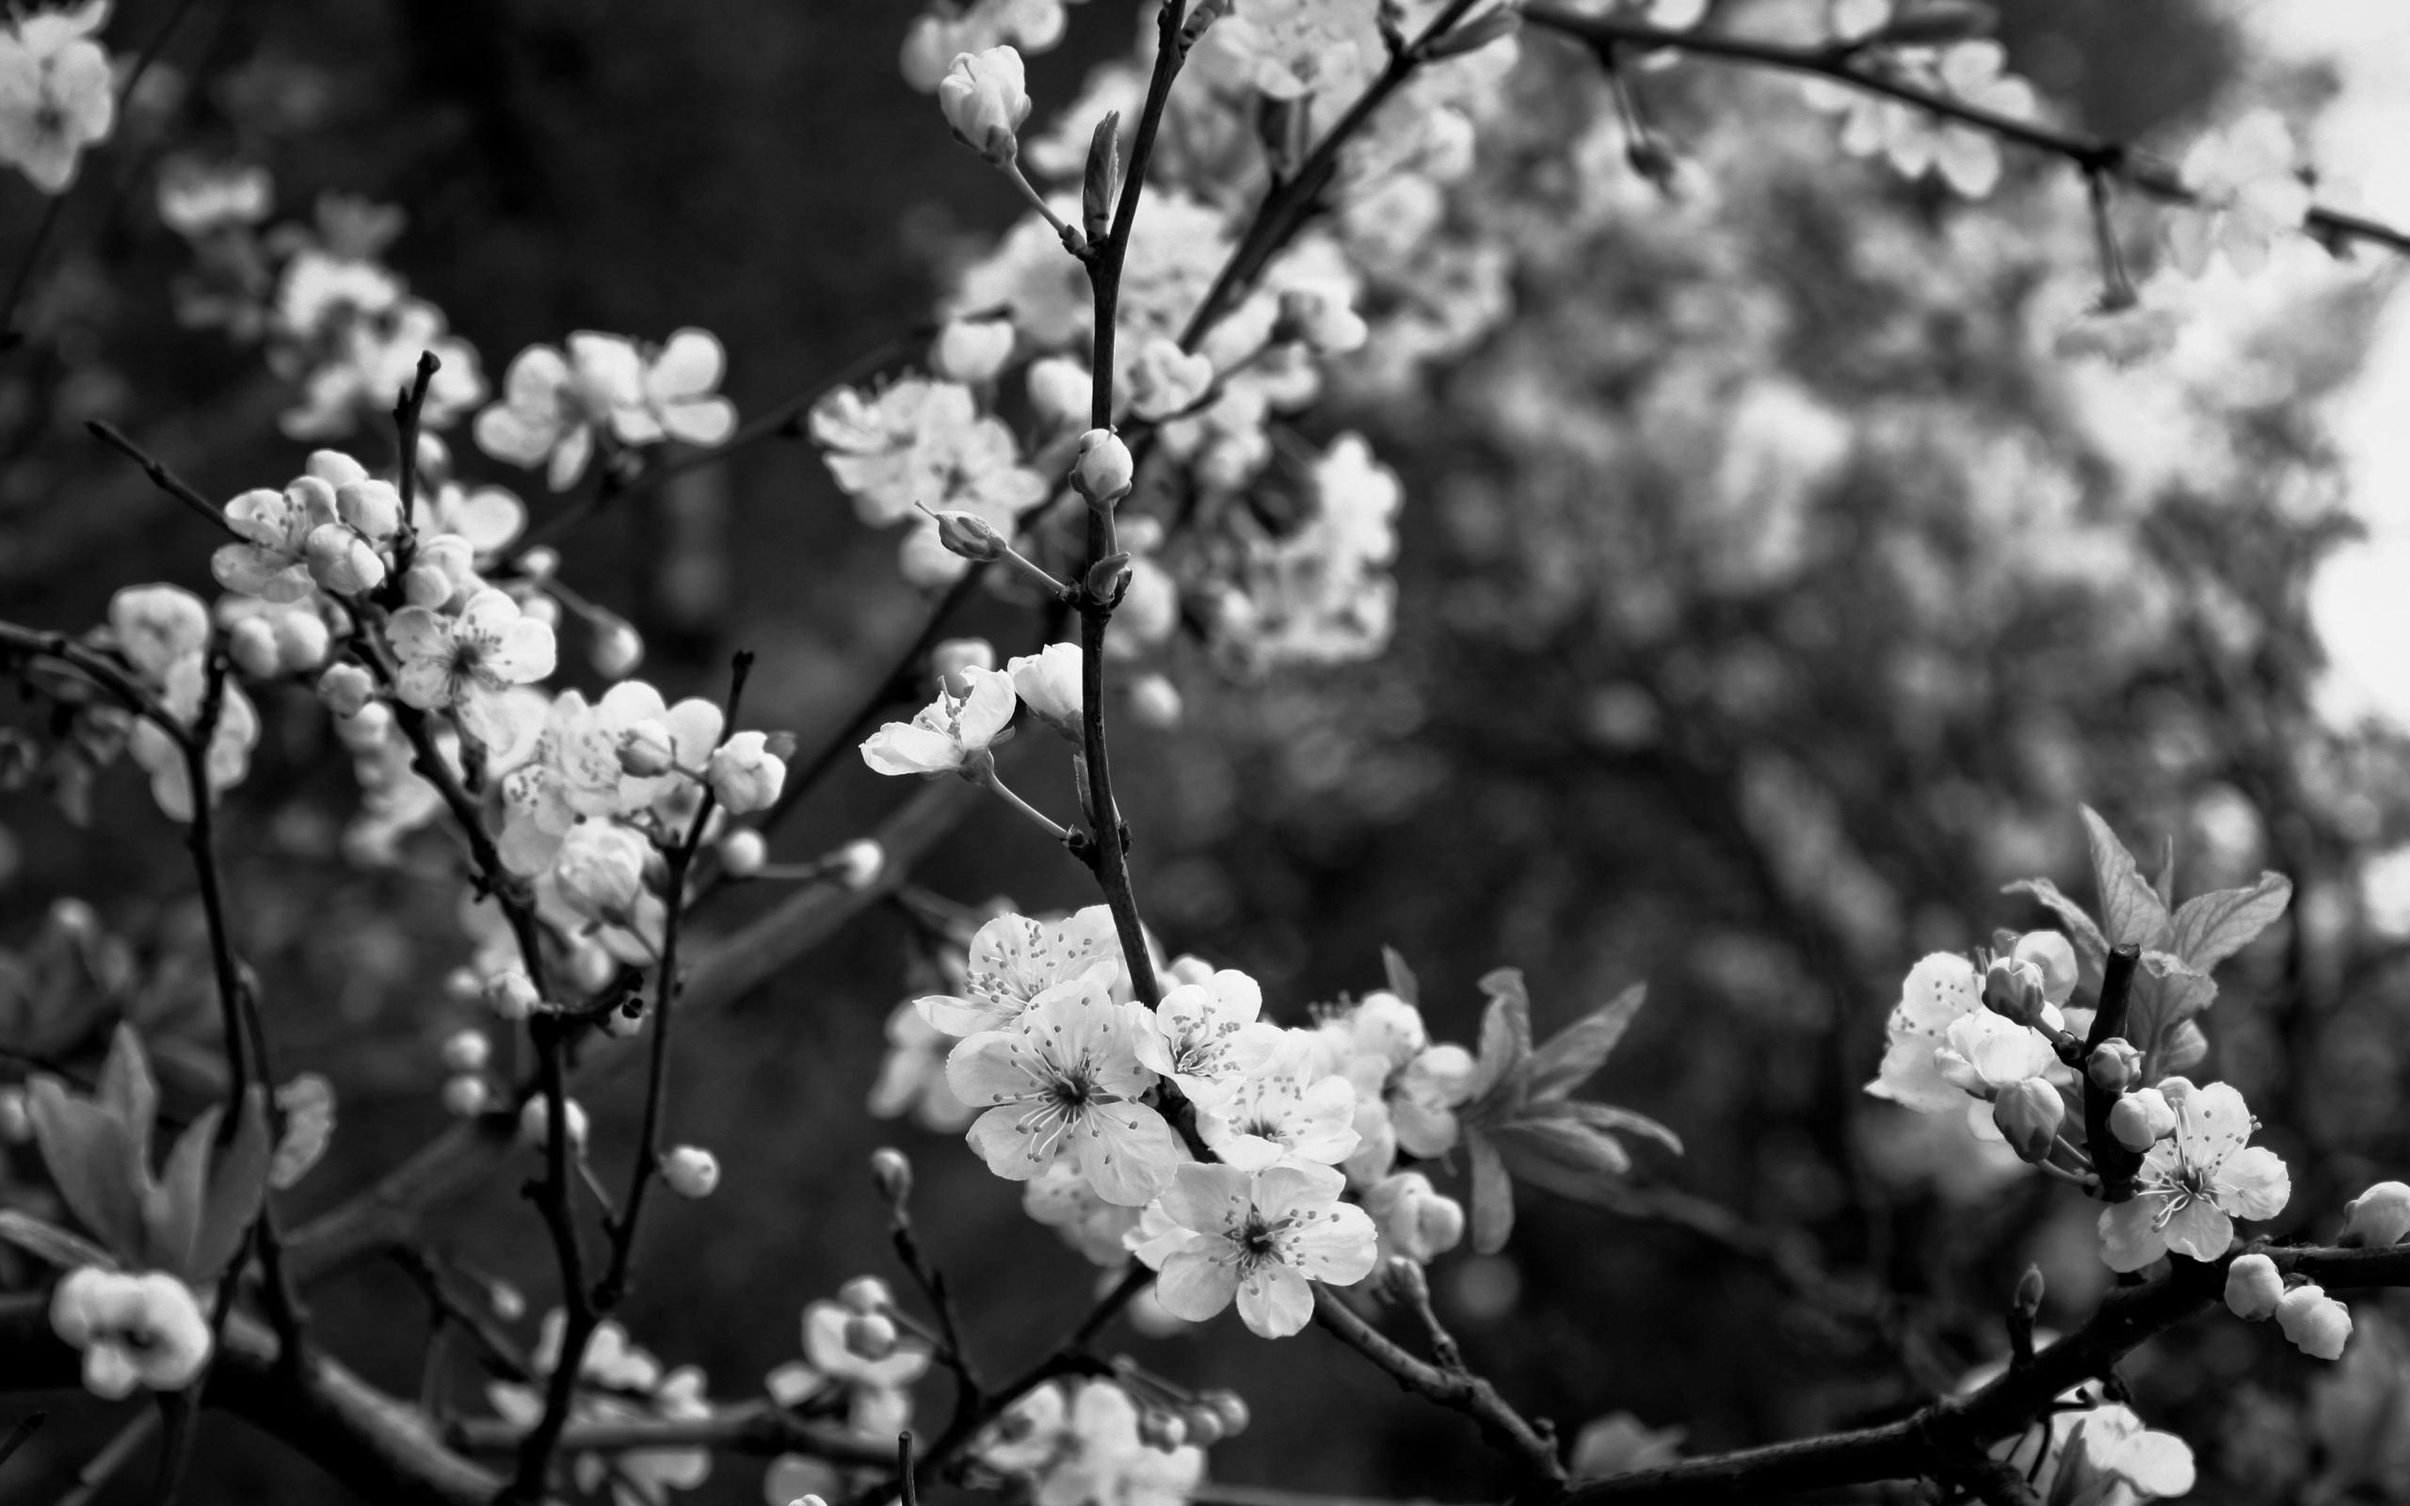
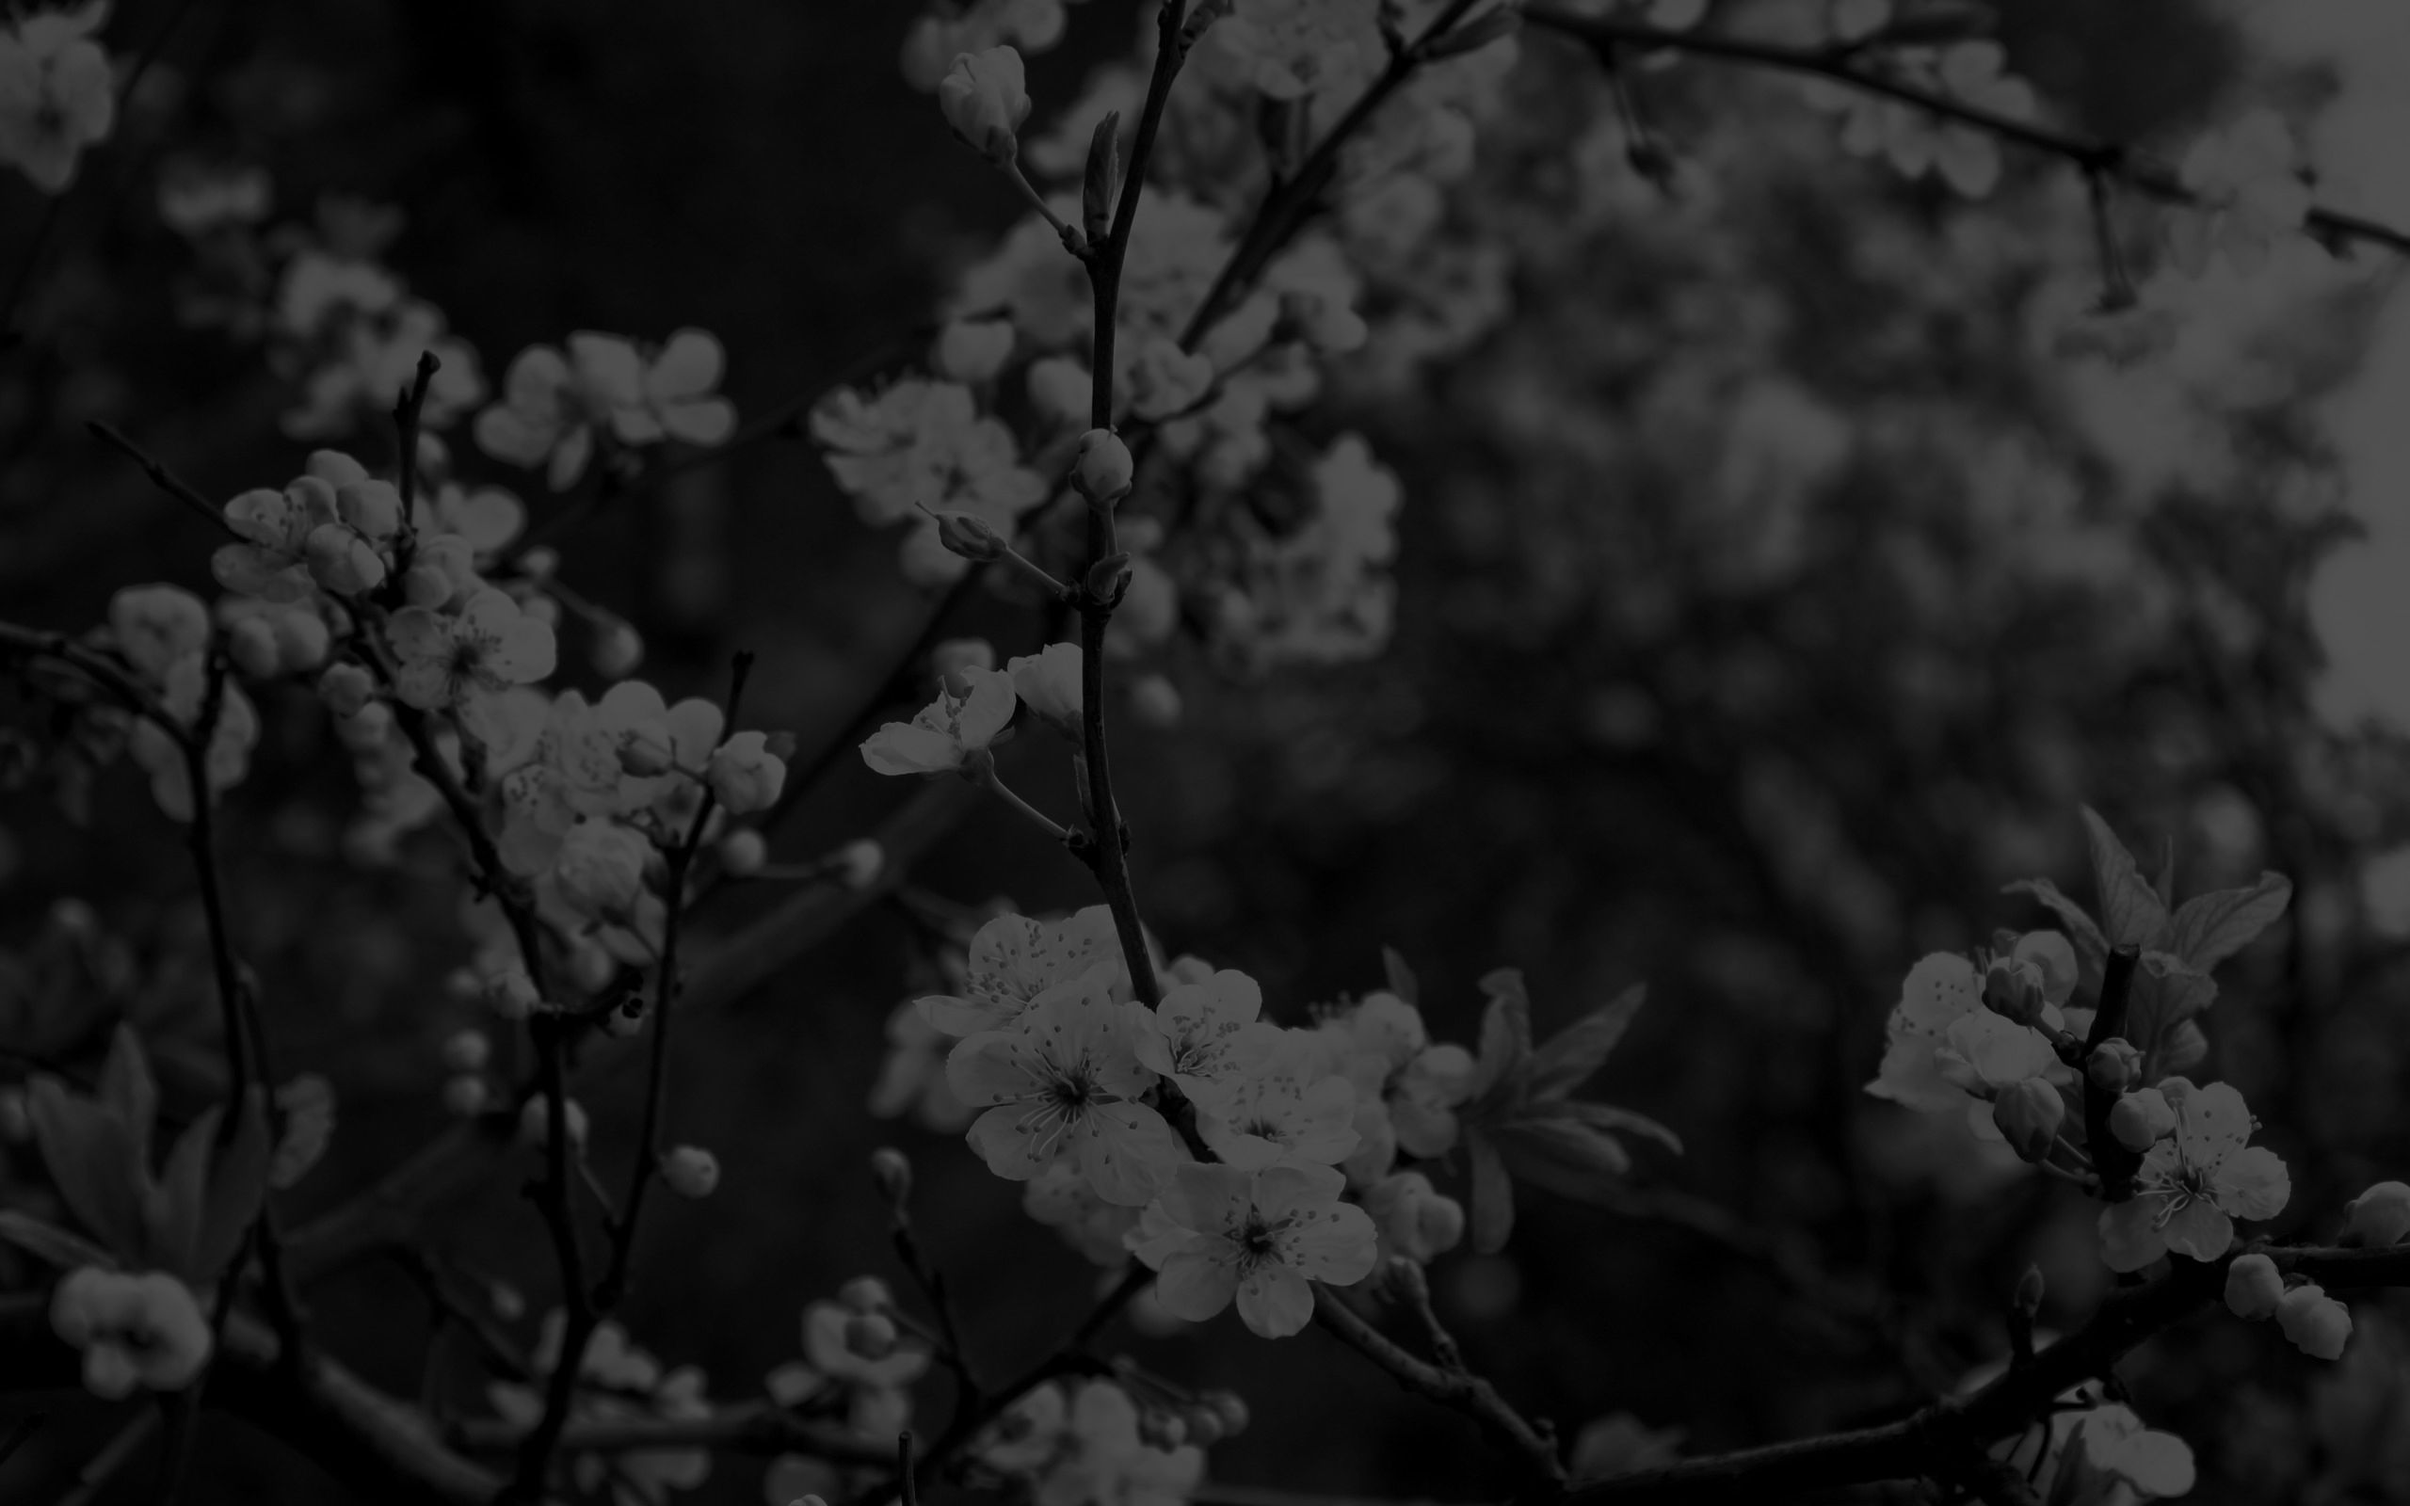
added pics, changed pics, and added changes to index page

diff --git a/index.html b/index.html
@@ -22,7 +22,7 @@
 	  font-family: "Raleway", "HelveticaNeue", "Helvetica Neue", Helvetica, Arial, sans-serif;
 	  color: #222; 
 
-	  background: url('StylingResources/img/gray_cherry_blossom_trees_spring_white_flowers_hd-wallpaper-1377459.jpg')no-repeat center center fixed; 
+	  background: url('StylingResources/img/gray_white_cherry_blossom_yay_nature_flowers_hd-wallpaper-1131718.jpg')no-repeat center center fixed; 
 	  -webkit-background-size: cover;
 	  -moz-background-size: cover;
 	  -o-background-size: cover;
@@ -61,7 +61,35 @@
     margin-bottom: 11px;
 }
 
+	button {
+		background-color: background-color: rgba(255, 255, 255, 0.08);
+		color: rgba(255, 255, 255, 0.7);
+		background-color: rgba(255, 255, 255, 0.08);
+		border-color: rgba(255, 255, 255, 0.2);
+		border-width: 1px;
+		border: 1px solid white;
+		display: inline-block;
+		padding: 6px 12px;
+		margin-bottom: 0;
+		font-size: 14px;
+		font-weight: normal;
+		  line-height: 1.42857143;
+		  text-align: center;
+		  white-space: nowrap;
+		  vertical-align: middle;
+		  -ms-touch-action: manipulation;
+			  touch-action: manipulation;
+		  cursor: pointer;
+		  -webkit-user-select: none;
+			 -moz-user-select: none;
+			  -ms-user-select: none;
+				  user-select: none;
+		  background-image: none;
+		  border-radius: 4px;
+	}
+	
 	/* tabs button menu style */
+	
 	nav#menu {
 		padding:20;
 	}
@@ -88,7 +116,28 @@
 		min-height:100%;
 		height:100%;
 	}
-	
+	.white-background {
+		/* Permalink - use to edit and share this gradient: http://colorzilla.com/gradient-editor/#ffffff+0,ffffff+100&amp;0.25+0,0.25+100 */
+		background: -moz-linear-gradient(left,  rgba(255,255,255,0.5) 0%, rgba(255,255,255,0.5) 100%); /* FF3.6+ */
+		background: -webkit-gradient(linear, left top, right top, color-stop(0%,rgba(255,255,255,0.5)), color-stop(100%,rgba(255,255,255,0.5))); /* Chrome,Safari4+ */
+		background: -webkit-linear-gradient(left,  rgba(255,255,255,0.5) 0%,rgba(255,255,255,0.5) 100%); /* Chrome10+,Safari5.1+ */
+		background: -o-linear-gradient(left,  rgba(255,255,255,0.5) 0%,rgba(255,255,255,0.5) 100%); /* Opera 11.10+ */
+		background: -ms-linear-gradient(left,  rgba(255,255,255,0.5) 0%,rgba(255,255,255,0.5) 100%); /* IE10+ */
+		background: linear-gradient(to right,  rgba(255,255,255,0.5) 0%,rgba(255,255,255,0.5) 100%); /* W3C */
+		filter: progid:DXImageTransform.Microsoft.gradient( startColorstr='#40ffffff', endColorstr='#40ffffff',GradientType=1 ); /* IE6-9 */
+
+	}
+	.black-background{
+		/* Permalink - use to edit and share this gradient: http://colorzilla.com/gradient-editor/#000000+0,000000+100&amp;0.5+0,0.5+100;Neutral+Density */
+		background: -moz-linear-gradient(left,  rgba(0,0,0,0.5) 0%, rgba(0,0,0,0.5) 100%); /* FF3.6+ */
+		background: -webkit-gradient(linear, left top, right top, color-stop(0%,rgba(0,0,0,0.5)), color-stop(100%,rgba(0,0,0,0.5))); /* Chrome,Safari4+ */
+		background: -webkit-linear-gradient(left,  rgba(0,0,0,0.5) 0%,rgba(0,0,0,0.5) 100%); /* Chrome10+,Safari5.1+ */
+		background: -o-linear-gradient(left,  rgba(0,0,0,0.5) 0%,rgba(0,0,0,0.5) 100%); /* Opera 11.10+ */
+		background: -ms-linear-gradient(left,  rgba(0,0,0,0.5) 0%,rgba(0,0,0,0.5) 100%); /* IE10+ */
+		background: linear-gradient(to right,  rgba(0,0,0,0.5) 0%,rgba(0,0,0,0.5) 100%); /* W3C */
+		filter: progid:DXImageTransform.Microsoft.gradient( startColorstr='#80000000', endColorstr='#80000000',GradientType=1 ); /* IE6-9 */
+
+	}
 	.fixed-side-navigation {
 		display:inline-block;
  		z-index:10;
@@ -99,18 +148,25 @@
 		left:0;
 		font-family: 'Raleway', sans-serif;
 		border-right:#707070 2px solid;
-		opacity:0.7;
-		
+		background: url('StylingResources/img/nav-background.png'); 
 		min-width:10%;
-		
+		color:#707070
 	}
 	.fixed-side-navigation:nth-child(2) {
-		opacity:1.0;
 	}	
 	.fixed-side-navigation  li {
-		 border-bottom: 2px solid #85E6C5;
+		 border-bottom: 2px solid #707070;
 	}
+	.fixed-side-navigation  li a{
+		 		color:#707070;
+	}
+	.fixed-side-navigation  a{
+		 		color:#707070;
+	}
+	.fixed-side-navigation  li a:hover {
+		color:#0FA0CE;
 
+	}
 	.fixed-side-navigation  li:hover {
 		 border-bottom: 2px solid #0FA0CE;
 	}
@@ -129,6 +185,7 @@
 	ul.side-nav-links li{
 		list-style-type: none;
 		padding-top:20px;
+		text-align:right;
 	}
 	
 	a { 
@@ -150,17 +207,17 @@
 	
   </style>
 	<body>
-		<div class="fixed-side-navigation vert-block" style="background:#fff;">
+		<div class="fixed-side-navigation vert-block">
 			<div class="col-md-12 inner-nav" style="margin-top:50%;">
 				<a href="#"> <i class="fa fa-code fa-4x pull-right" ></i> </a>
 				<div class="row">
 					<div class="col-md-12">
 						<ul class="side-nav-links">
-							<li title="home"  class="opts" style="text-align:right"><a href="#">Home</a></li>
-							<li title="about"  class="opts" style="text-align:right"><a href="#">About</a></li>
-							<li title="portfolio"  class="opts" style="text-align:right"><a href="#">Portfolio</a></li>
-							<li title="contact"  class="opts" style="text-align:right"><a href="#">Contact Me </a></li>
-							<li title="Codebits"  class="opts" style="text-align:right"><a href="#">Code Bits</a></li>
+							<li title="home"  class="opts" ><a href="#home">Home</a></li>
+							<li title="about"  class="opts"><a href="#about">About</a></li>
+							<li title="portfolio"  class="opts"><a href="#portfolio">Portfolio</a></li>
+							<li title="contact"  class="opts"><a href="#contactme">Contact Me </a></li>
+							<li title="Codebits"  class="opts"><a href="#codebits">Code Bits</a></li>
 						</ul>
 					</div>
 				</div>
@@ -168,33 +225,43 @@
 		</div>
 		<div class="slider">
 			<!-- first slide background-image: linear-gradient(150deg, #0000FF, #33CCFF, #66FFFF);  background: -->
-			<div class="gh-block home active-slide hidden-slide" style="">
+			<div class="gh-block home active-slide hidden-slide black-background" style="">
+				<div class="col-xs-12 transparent-gradient gh-block" >			
+
 				<div class="container-fluid" >
-					<div class="col-md-10 col-md-offset-1 contents">
-						<div class="col-md-10 col-md-offset-1">
+					<div class="col-md-10 col-md-offset-1 ">
+						<div class="col-md-10 col-md-offset-1 contents">
+							<h1 class="text-center">Stinamanalily's Personal Projects</h1>
+							<h2 class="text-center">Codes and stuff...</h2> 
 							<div class="page-heading">
-								<h1 class="project-name">Stinamanalily's Personal Projects</h1>
-								<h2 class="project-tagline">Codes and stuff...</h2> 
 									<nav id="menu">
-										<button class="translucent-btn">Javascript</button>
-										<button class="translucent-btn">Salesforce</button>
-										<button class="translucent-btn">C++</button>
+										<button class="btn">Javascript</button>
+										<button class="btn">Salesforce</button>
+										<button class="btn">C++</button>
 									<nav>
+							</div>
+							<div>
+								<p>This website is currently undergoing some changes. Changes include:</p>
+								<ol>
+									<li>Responsive side navigation: becomes a dropdown once it reaches a certain screensize</li>
+									<li>Tile grid gallery: maybe I will use Isotope</li>
+									<li>Some more pages and images?? </li>
+								</ol>
 							</div>
 							<div class="twelve columns" style="text-align:center; color:#fff;">
 								<a href="https://github.com/stinamanalily/PersonalProjects">Personal Projects</a> is maintained by <a href="https://github.com/stinamanalily">stinamanalily</a>.
 
-								This page was generated by <a href="https://pages.github.com">GitHub Pages</a> using the <a href="https://github.com/jasonlong/cayman-theme">Cayman theme </a>by <a href="https://twitter.com/jasonlong">Jason Long</a> <i>(with a lot of added changes and a personal touch, if I may add)</i>.
+								This page was generated by <a href="https://pages.github.com">GitHub Pages</a> using the <a href="https://github.com/jasonlong/cayman-theme">Cayman theme </a>by <a href="https://twitter.com/jasonlong">Jason Long</a> <i>(with lots of changes)</i>.
 							</div>
 						</div>	
 					</div>
 				</div>
 				
-			
+			 </div>
 			</div>
 			<!-- second slide background: url('StylingResources/img/norway-fjord-fog-between-mountains.jpg') no-repeat fixed center; -->
 			<div class="gh-block about hidden-slide" style="">
-				<div class="col-xs-12 transparent-gradient gh-block" style="background:linear-gradient(to left, rgba(0,0,0,0), rgba(0,0,0,.5));">
+				<div class="col-xs-12 transparent-gradient gh-block black-background" style="">
 					<div class="container">
 						<div class="contents">
 							<h1>About Me</h1>
@@ -205,15 +272,23 @@
 			</div>
 			<!-- third slide background: url('StylingResources/img/iceland-wallpaper-04.jpg') -->
 			  <div class="gh-block portfolio hidden-slide" style="">
-				<div class="col-xs-12 transparent-gradient gh-block" style="background:linear-gradient(to left, rgba(0,0,0,0), rgba(0,0,0,.5));">			
-					<div class="container">
-						<div class="contents">
+				<div class="col-xs-12 transparent-gradient gh-block white-background" style="">			
+					<div class="fluid-container">							
+						<div class="col-md-10 col-md-offset-1" style="color:#353535;">
 							<h1>Portfolio</h1>
 							<h2>some stuff to display and show</h2> 
+							<div class="col-md-10 col-md-offset-1">
+									<p>This website is currently undergoing some changes. Changes include:</p>
+									<ol>
+										<li>Responsive side navigation: becomes a dropdown once it reaches a certain screensize</li>
+										<li>Tile grid gallery: maybe I will use Isotope</li>
+										<li>Some more pages and images?? </li>
+									</ol>
+							</div>
 						</div>
 					</div>
-				</div>
-			</div> 
+				</div> 
+			 </div>
 			<!-- third slide background: url('StylingResources/img/iceland-wallpaper-04.jpg') -->
 			<div class="gh-block Codebits hidden-slide " style="">
 				<div class="transparent-gradient gh-block" style="background:linear-gradient(to left, rgba(0,0,0,0), rgba(0,0,0,.5));">			
@@ -250,7 +325,7 @@
 										  <textarea class="form-control" style="background-color:#000;"></textarea>
 										</div>
 										<div class="form-group" style="padding:5px;">
-										  <button class="btn" type="submit"> Submit </button>
+										  <button  type="submit"> Submit </button>
 										</div>
 									</div>
 								</form>
